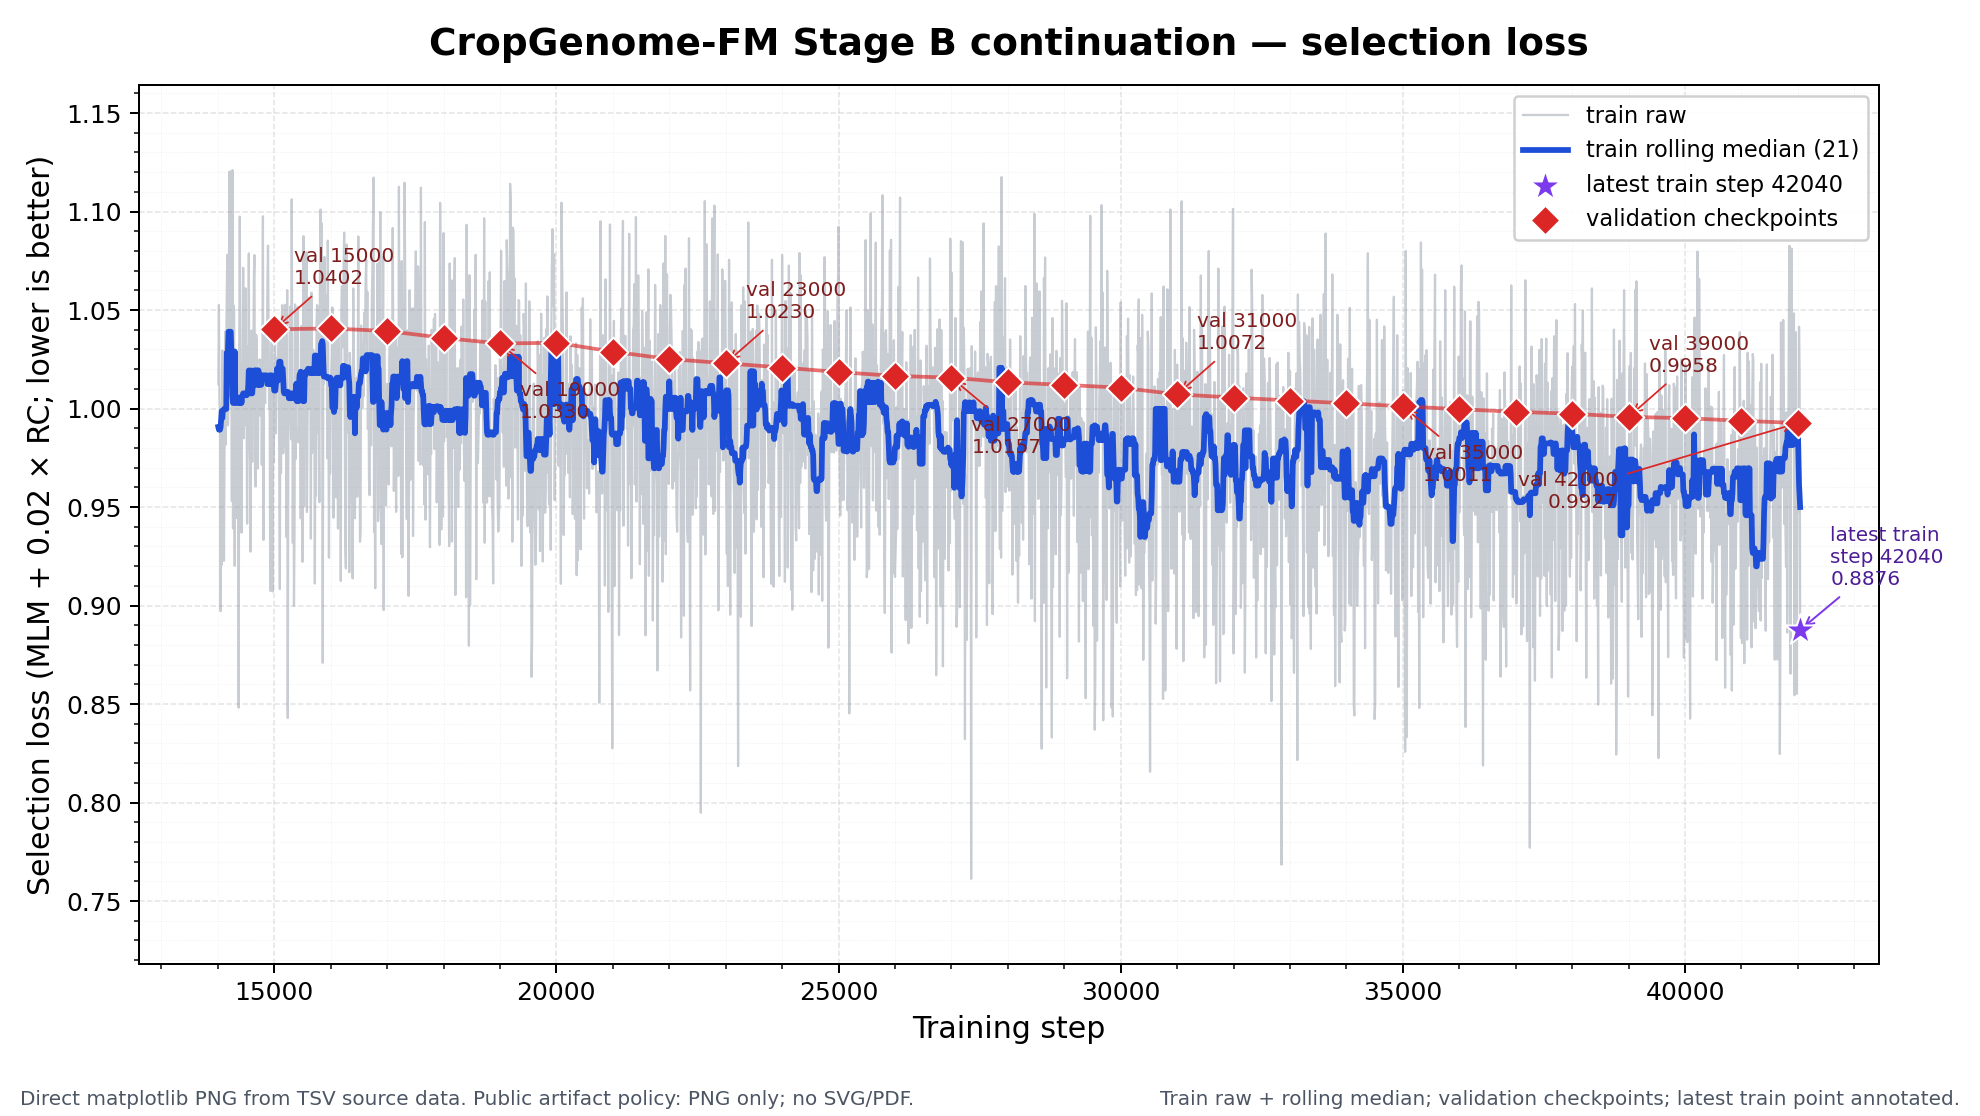
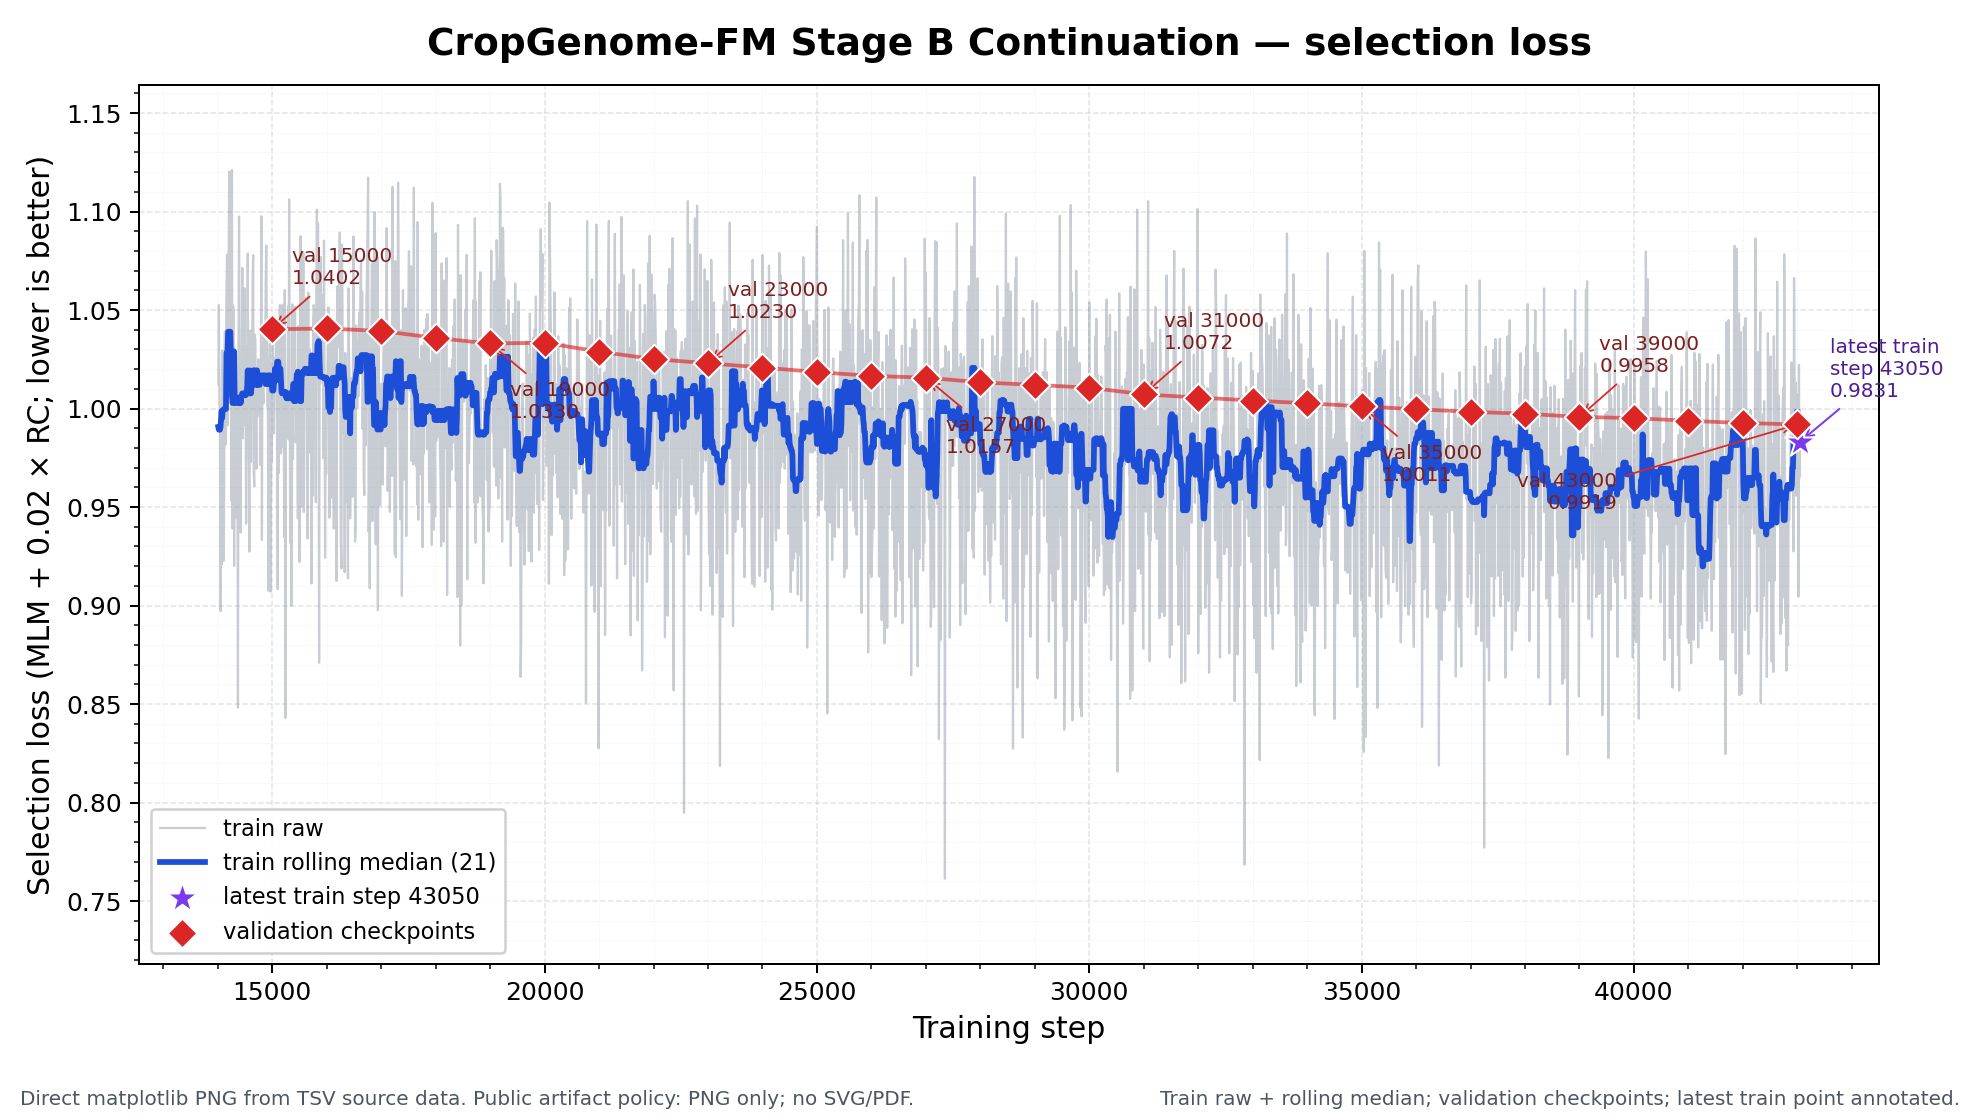
docs: update progress through step 43000

diff --git a/TRAINING_PROGRESS.md b/TRAINING_PROGRESS.md
@@ -1,6 +1,6 @@
 # CropGenome-FM训练进展
 
-更新时间：2026-08-03 00:55 CST
+更新时间：2026-08-03 04:46 CST
 
 ## 1. 当前训练状态
 
@@ -8,10 +8,10 @@
 |---|---|
 |运行状态|RUNNING|
 |阶段|Stage B continuation；从step14000精确续训|
-|最新公开里程碑|step42000 / 50000（84%）|
-|最新验证点|step42000|
-|当前最佳验证点|step42000|
-|best val selection loss|0.9926690|
+|最新公开里程碑|step43000 / 50000（86%）|
+|最新验证点|step43000|
+|当前最佳验证点|step43000|
+|best val selection loss|0.9919196|
 |训练资源|gpu10，3×NVIDIA A100-SXM4-40GB，GPU0–2|
 |实时核验|3个训练rank各约37.5GB；训练日志仍在增长|
 |全局有效batch|36（每rank micro-batch 4 × 3 ranks × 梯度累积3）|
@@ -55,8 +55,9 @@
 |40000|1.0622|0.9916|0.1742|0.9951|1.3405|0.5260|
 |41000|1.0573|0.9903|0.1717|0.9938|1.2709|0.5104|
 |42000|1.0572|0.9892|0.1744|0.9927|1.2913|0.5156|
+|43000|1.0555|0.9885|0.1718|0.9919|1.2719|0.5625|
 
-从正式候选起点step16000到step42000，validation selection loss由1.0406386降至0.9926690，下降0.0479696（约4.61%）。总体趋势继续改善，但total loss和辅助region指标并非每个点都严格单调，最终模型价值仍必须由固定下游任务验证。
+从正式候选起点step16000到step43000，validation selection loss由1.0406386降至0.9919196，下降0.0487190（约4.68%）。总体趋势继续改善，但total loss和辅助region指标并非每个点都严格单调，最终模型价值仍必须由固定下游任务验证。
 
 ## 3. 曲线与源数据
 
